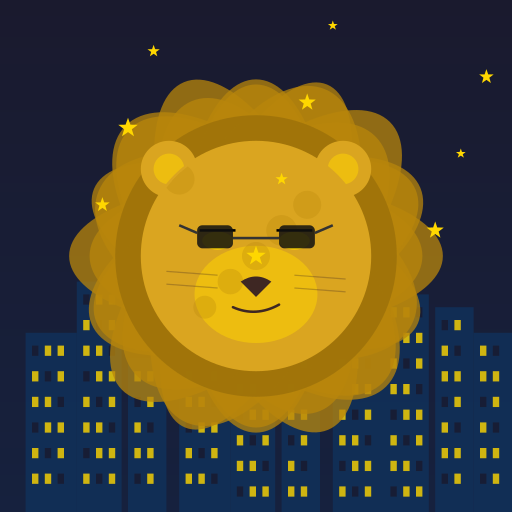
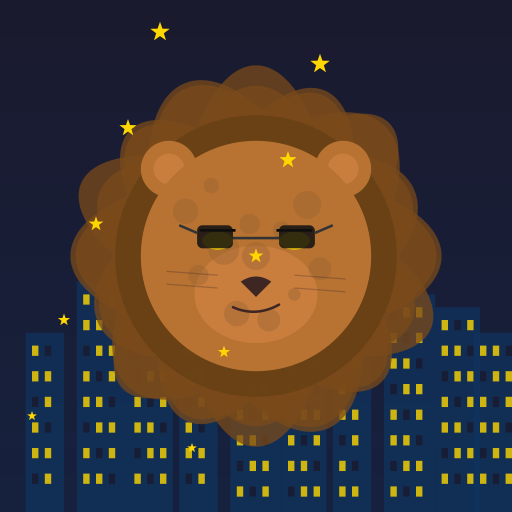
🦁 Daily evolution

diff --git a/README.md b/README.md
@@ -90,8 +90,8 @@ In **Actions** → **Daily Evolution** → **Enable workflow**
 
 <!-- LION_STATS_START -->
 - **Generation**: 1
-- **Age**: 103 days
-- **Mutations**: 14
+- **Age**: 104 days
+- **Mutations**: 15
 - **Rarity Score**: 18.3/100
 <!-- LION_STATS_END -->
 
